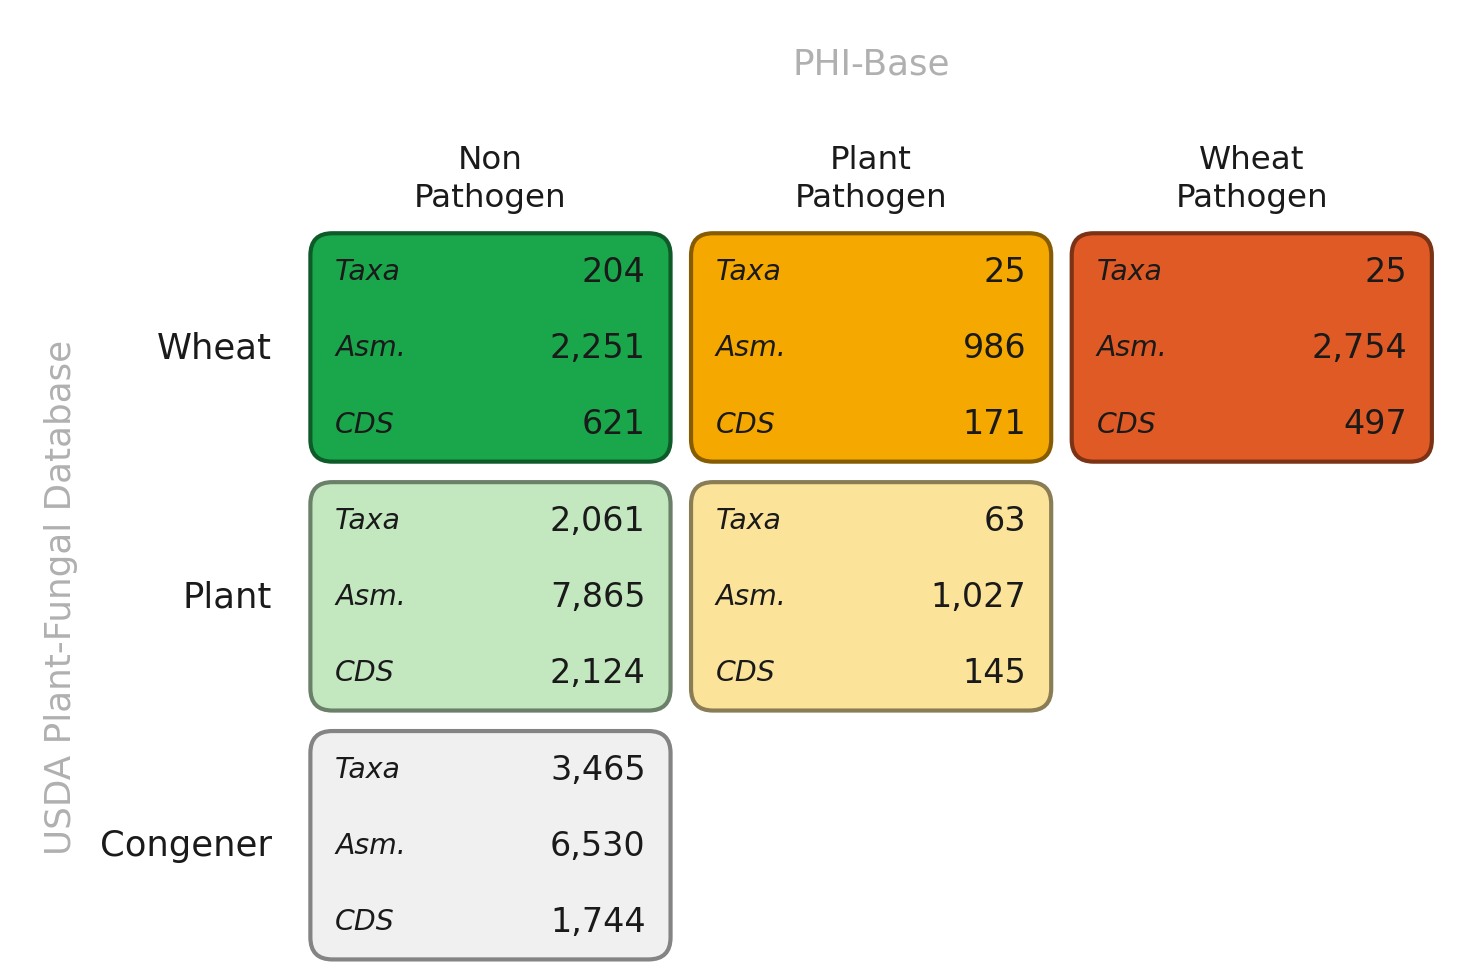
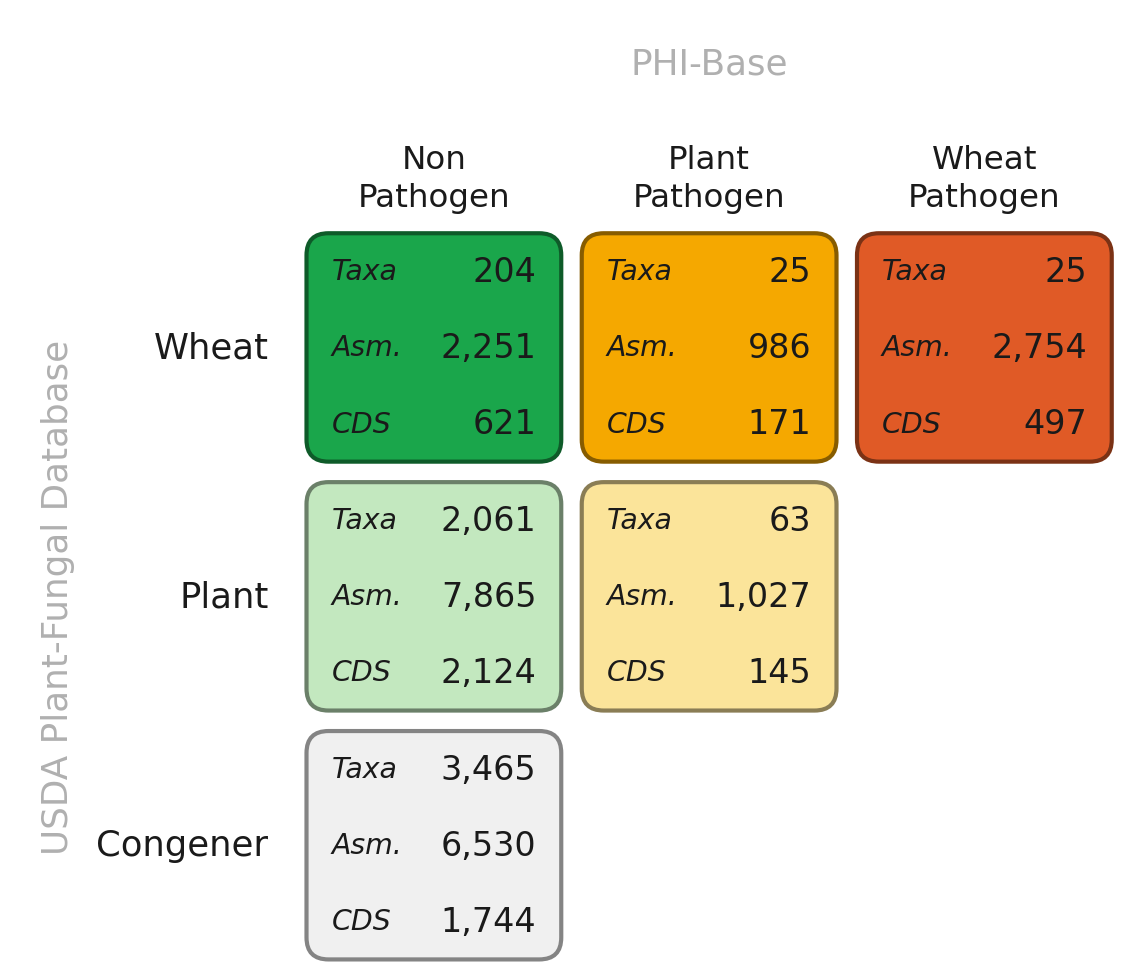
02_reference: mark the clade arcs with a symbol, and rebuild the legend
Set radially, a 15-character class name reads at a different angle in every
quadrant, half of it needs flipping, and at this size it competes with the bars
it annotates. A point shape is orientation-free.

tree.R writes the assignment to tree_arcs.tsv as it draws, and both the key and
the caption read it back, so neither can drift from the panel.

The legend becomes two columns, bar colour and arc symbol: one column would run
about 5 in tall against a 3.3 in band.

diff --git a/release/02_reference/figures/tree/caption.py b/release/02_reference/figures/tree/caption.py
@@ -3,7 +3,7 @@
 
     python release/02_reference/figures/tree/caption.py
 
-Reads  tree_tips.tsv, tree_clades.tsv            (beside this script)
+Reads  tree_tips.tsv, tree_arcs.tsv              (beside this script)
 Writes tree_caption.txt
 
 Nothing here is prose-with-numbers-typed-in: the narrative is a template and every figure in
@@ -39,11 +39,11 @@ def main():
     part = n - full
     top = max(int(t["n_genomes"]) for t in tips)
     single = sum(1 for t in tips if int(t["n_genomes"]) == 1)
-    # tree.R draws an arc only for classes with >= LABEL_MIN members, so the caption has to
-    # apply the same floor or it reports every class in the table instead of every arc drawn.
-    LABEL_MIN = 40
-    clades = [r for r in rd(FIG / "tree_clades.tsv")
-              if r["rank"] == "class" and int(r["n_species"]) >= LABEL_MIN]
+    # tree_arcs.tsv is written by tree.R as it draws, so this is exactly what is on the
+    # panel. Reading tree_clades.tsv instead reported every class in the taxonomy (154).
+    arcs = rd(FIG / "tree_arcs.tsv")
+    SHAPE_NAME = {"21": "circle", "22": "square", "23": "diamond",
+                  "24": "triangle", "25": "inverted triangle"}
 
     key = "\n".join(f"  {LABEL[k]:<42}{cat[k]:>6,}" for k in LABEL if cat[k])
 
@@ -84,10 +84,13 @@ def main():
         f"segments are the gene-prediction worklist, because those are genomes already "
         f"deposited whose CDS the database cannot currently use.",
         "",
-        f"The {len(clades)} arcs outside the bars mark the taxonomic classes with at least "
-        f"{LABEL_MIN} members: " + ", ".join(sorted(c["clade"] for c in clades)) + ". They "
-        f"are reading aids for position in the tree, not a result; the smaller classes are "
-        f"present as tips but carry no arc.",
+        f"The {len(arcs)} arcs outside the bars mark the taxonomic classes large enough to "
+        f"label, each identified by a SYMBOL rather than a name: "
+        + "; ".join(f"{SHAPE_NAME.get(a['shape'], a['shape'])} {a['class']} "
+                    f"({int(a['n']):,} taxa)" for a in arcs) + ". A symbol is used because a "
+        f"class name set radially reads at a different angle in every quadrant and competes "
+        f"with the bars it annotates. The arcs are reading aids for position in the tree, "
+        f"not a result, and the smaller classes are present as tips but carry no arc.",
         "",
         "",
         "HOW TO READ IT",
@@ -118,9 +121,9 @@ def main():
         + "; ".join(f"{LABEL[k]} {cat[k]:,}" for k in LABEL if cat[k]) +
         f"). The inner ring is the share of that taxon's assemblies carrying a gene model, "
         f"pale where all do and dark purple where few do ({full:,} of {n:,} fully "
-        f"annotated). Arcs mark the {len(clades)} taxonomic classes with at least "
-        f"{LABEL_MIN} members. Congeners are excluded, being classifier competitors that "
-        f"are never reported.",
+        f"annotated). Symbols on the {len(arcs)} outer arcs mark the largest taxonomic "
+        f"classes, keyed in tree_legend.png. Congeners are excluded, being classifier "
+        f"competitors that are never reported.",
     ))
 
 

diff --git a/release/02_reference/figures/matrix/plot_matrix.py b/release/02_reference/figures/matrix/plot_matrix.py
@@ -96,8 +96,9 @@ def main():
     #   0.30 + tree 7.50 + 0.20 gutter + matrix 3.06 + 0.30  = 11.36 tall  (page 11.69)
     #   0.30 + tree 7.50 + 0.30                              =  8.10 wide (page  8.27)
     #
-    # The band is 7.67 wide, so the matrix takes 4.90 and the tree legend sits beside it.
-    CW, CH, GAP = 1.23, 0.78, 0.07          # pill width, height, and the space between
+    # The band is 7.67 wide: 3.80 matrix + 0.20 gutter + 3.67 legend (which carries the arc
+    # symbol key, so it needs two columns and more width than it used to).
+    CW, CH, GAP = 0.87, 0.78, 0.07          # pill width, height, and the space between
     X0, YTOP = 1.00, 2.46                   # grid origin: left edge, top edge
     PAD, ROUND = 0.085, 0.075               # inside a pill, and its corner radius
     fig, ax = plt.subplots(figsize=(X0 + 3 * CW + 2 * GAP + 0.06, YTOP + 0.80))

diff --git a/release/02_reference/README.md b/release/02_reference/README.md
@@ -318,6 +318,7 @@ read from the curation tables at draw time; none is transcribed.
                       caption.py      -> matrix_caption.txt
     figures/tree/     prep_tree.py    -> tree_{tree.nwk,tips,clades,params}
                       tree.R          -> tree.png
+                      tree.R          -> tree_arcs.tsv (the shape per class)
                       tree_legend.R   -> tree_legend.png
                       caption.py      -> tree_caption.txt
 
@@ -355,8 +356,8 @@ repeated in `tree.R` and `tree_legend.R` and the three must be kept in step.
 the matrix as a landscape band beneath it with the key beside it.
 
     width   0.30 + tree 7.50 + 0.30                                  =  8.10
-    band    0.30 + matrix 4.89 + 0.20 + legend 2.58 + 0.30           =  8.27
-    height  0.30 + 7.50 + 0.20 + max(band 3.26, 3.16) + 0.30         = 11.56
+    band    0.30 + matrix 3.81 + 0.20 + legend 3.67 + 0.30           =  8.28
+    height  0.30 + 7.50 + 0.20 + max(band 3.26, 2.57) + 0.30         = 11.56
 
 Stacking beats side by side here. A square fan placed next to the matrix wastes whatever
 height the matrix does not use, and the fan is then limited by the width the matrix leaves
@@ -365,8 +366,15 @@ it. Stacked, the fan is limited only by the page, and the band fills the strip l
 15 in and shrinking that PNG into the layout would take 12 pt numerals down to about 5 pt.
 
 **The tree carries no legend and no title.** `tree_legend.R` draws the key as its own file,
-one swatch and one label per row after `01_cohort`'s `cohort_network_legend`, so the fan can
-be placed and scaled without dragging a legend block with it.
+after `01_cohort`'s `cohort_network_legend`, so the fan can be placed and scaled without
+dragging a legend block with it. It is two columns, bar colour and arc symbol, because one
+column would be about 5 in tall against a 3.3 in band.
+
+**The clade arcs are marked with a SYMBOL, not a class name.** Set radially, a 15-character
+name reads at a different angle in every quadrant, half of it needs flipping, and at this
+size it competes with the bars it annotates. A point shape is orientation-free. `tree.R`
+writes the assignment to `tree_arcs.tsv` as it draws, and both the key and the caption read
+it back, so neither can drift from the panel.
 
 **Captions are generated, never hand-edited.** Each `caption.py` reads the tables and
 interpolates every figure, after the drift recorded in `crypt-figure-caption-discipline`.
